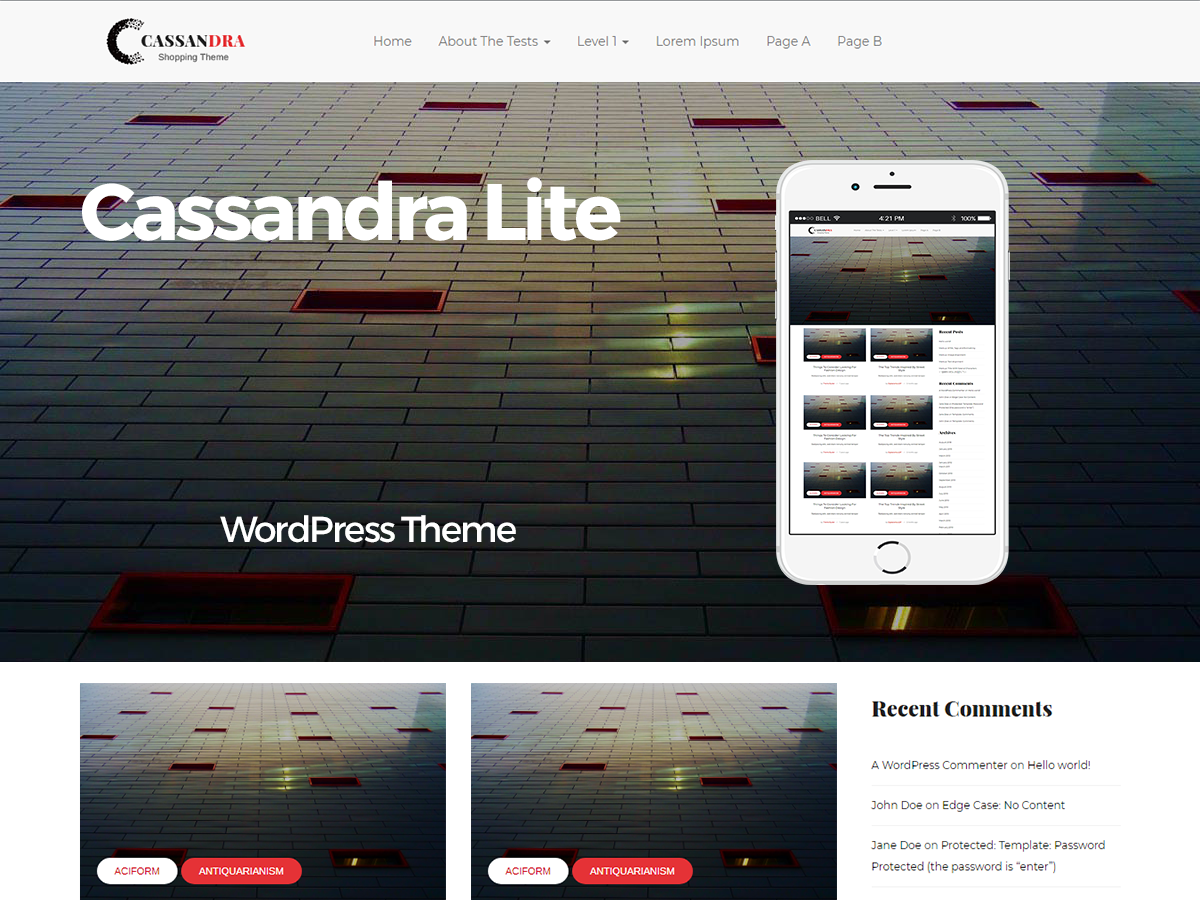
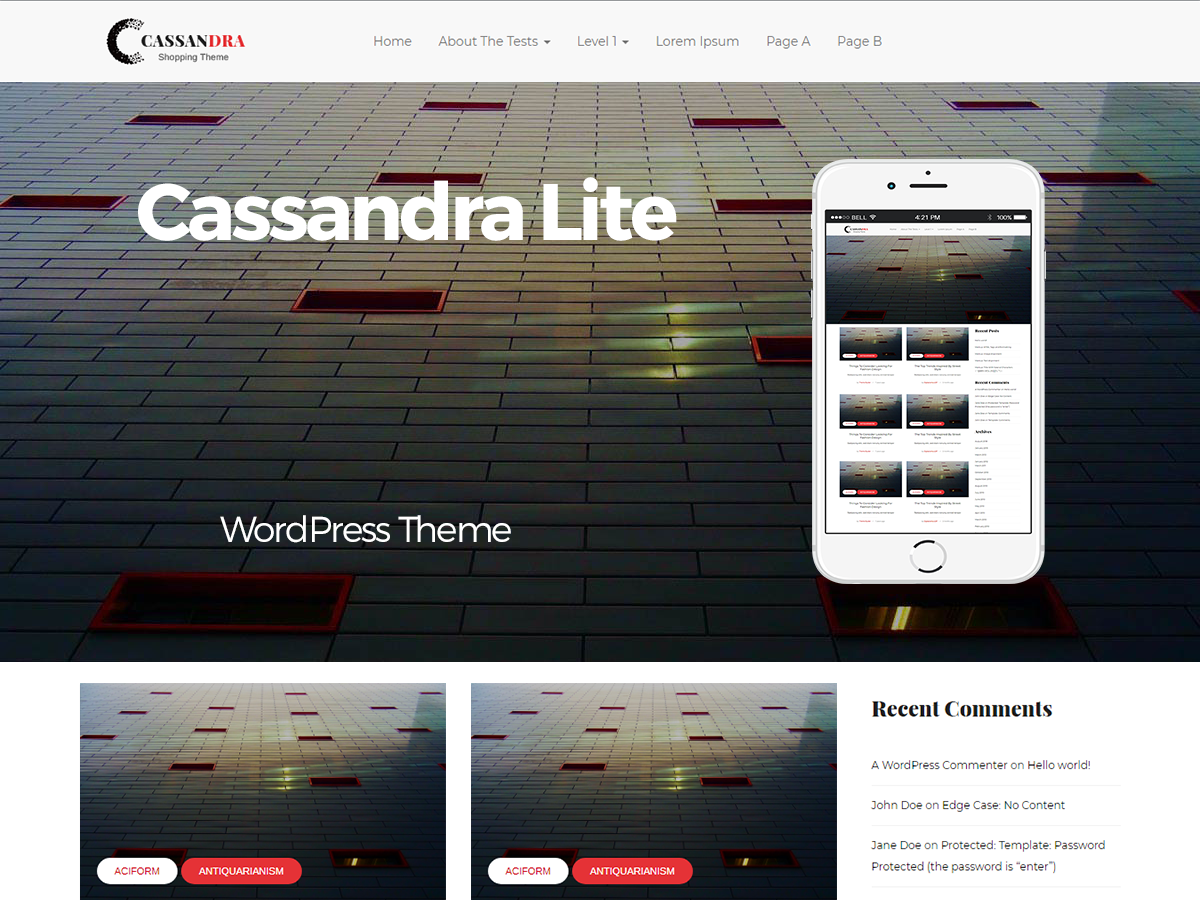
screenshot image & footer updated

Changed region(s): [[0.6475, 0.1556, 0.8942, 0.6533], [0.0617, 0.1867, 0.5858, 0.28], [0.185, 0.56, 0.4317, 0.6222]]

diff --git a/style.css b/style.css
@@ -3,12 +3,12 @@ Theme Name: Cassandra Lite
 Theme URI: https://digitalcenturysf.com/templates/cassandra-fashion1-retail-wordpress-theme/
 Author: DigitalcenturySF
 Author URI: http://digitalcenturysf.com/
-Description: Cassandra is a responsive WordPress Theme. This theme is easily customizable and comes with many great features. View more themes from this author: https://digitalcenturysf.com/
+Description: Cassandra is a responsive and clean WordPress Theme. It's easily customizable and comes with many great features. View more themes from this author: https://digitalcenturysf.com/
 Version: 1.0.0
 License: GNU General Public License v2 or later
 License URI: http://www.gnu.org/licenses/gpl-2.0.html
 Text Domain: cassandra-lite
-Tags: blog, news, two-columns, three-columns, left-sidebar, right-sidebar,  custom-header, custom-menu, editor-style, featured-images, flexible-header, footer-widgets, full-width-template, microformats, post-formats, rtl-language-support, sticky-post, theme-options, translation-ready 
+Tags: blog, news, two-columns, three-columns, right-sidebar,  custom-header, custom-menu, editor-style, featured-images, flexible-header, sticky-post, theme-options, translation-ready 
 This theme, like WordPress, is licensed under the GPL.
 Use it to make something cool, have fun, and share what you've learned with others.
 WP Framework is based on Underscores http://underscores.me/, (C) 2012-2016 Automattic, Inc.

diff --git a/template-parts/content.php b/template-parts/content.php
@@ -30,7 +30,12 @@
     <?php 
     $cassandra_lite_img_chk = '';
     endif; ?>  
-	<h3 class="<?php echo esc_attr($cassandra_lite_img_chk); ?>"><a href="<?php the_permalink(); ?>"><?php the_title(); ?></a></h3>
+    <h3 class="<?php echo esc_attr($cassandra_lite_img_chk); ?>"> 
+		<?php if(is_sticky()): ?>
+		    <span class="dashicons dashicons-admin-post"></span>
+		<?php endif; ?>
+    	<a href="<?php the_permalink(); ?>"><?php the_title(); ?></a>
+    </h3>
 	<h5><?php cassandra_lite_short_text_remove_shortcode(); ?></h5>
 	<h6><?php esc_html_e('by','cassandra-lite'); ?> <span><a href="#"><?php the_author(); ?></a></span>&nbsp; &nbsp;    /&nbsp; &nbsp;    <?php echo human_time_diff( get_the_time('U'), current_time('timestamp') ) . esc_html__(' ago','cassandra-lite'); ?></h6>
 </div> 

diff --git a/README.md b/README.md
@@ -1,7 +1,7 @@
 # Cassandra Lite v1.0.0
 ![Cassandra Lite - Free Wordpress Theme](/screenshot.png)
 
-> Cassandra is a responsive WordPress Theme. This theme is easily customizable and comes with many great features.
+> Cassandra is a responsive and clean WordPress Theme. It's easily customizable and comes with many great features.
 
 View more themes from this author: https://digitalcenturysf.com
 
